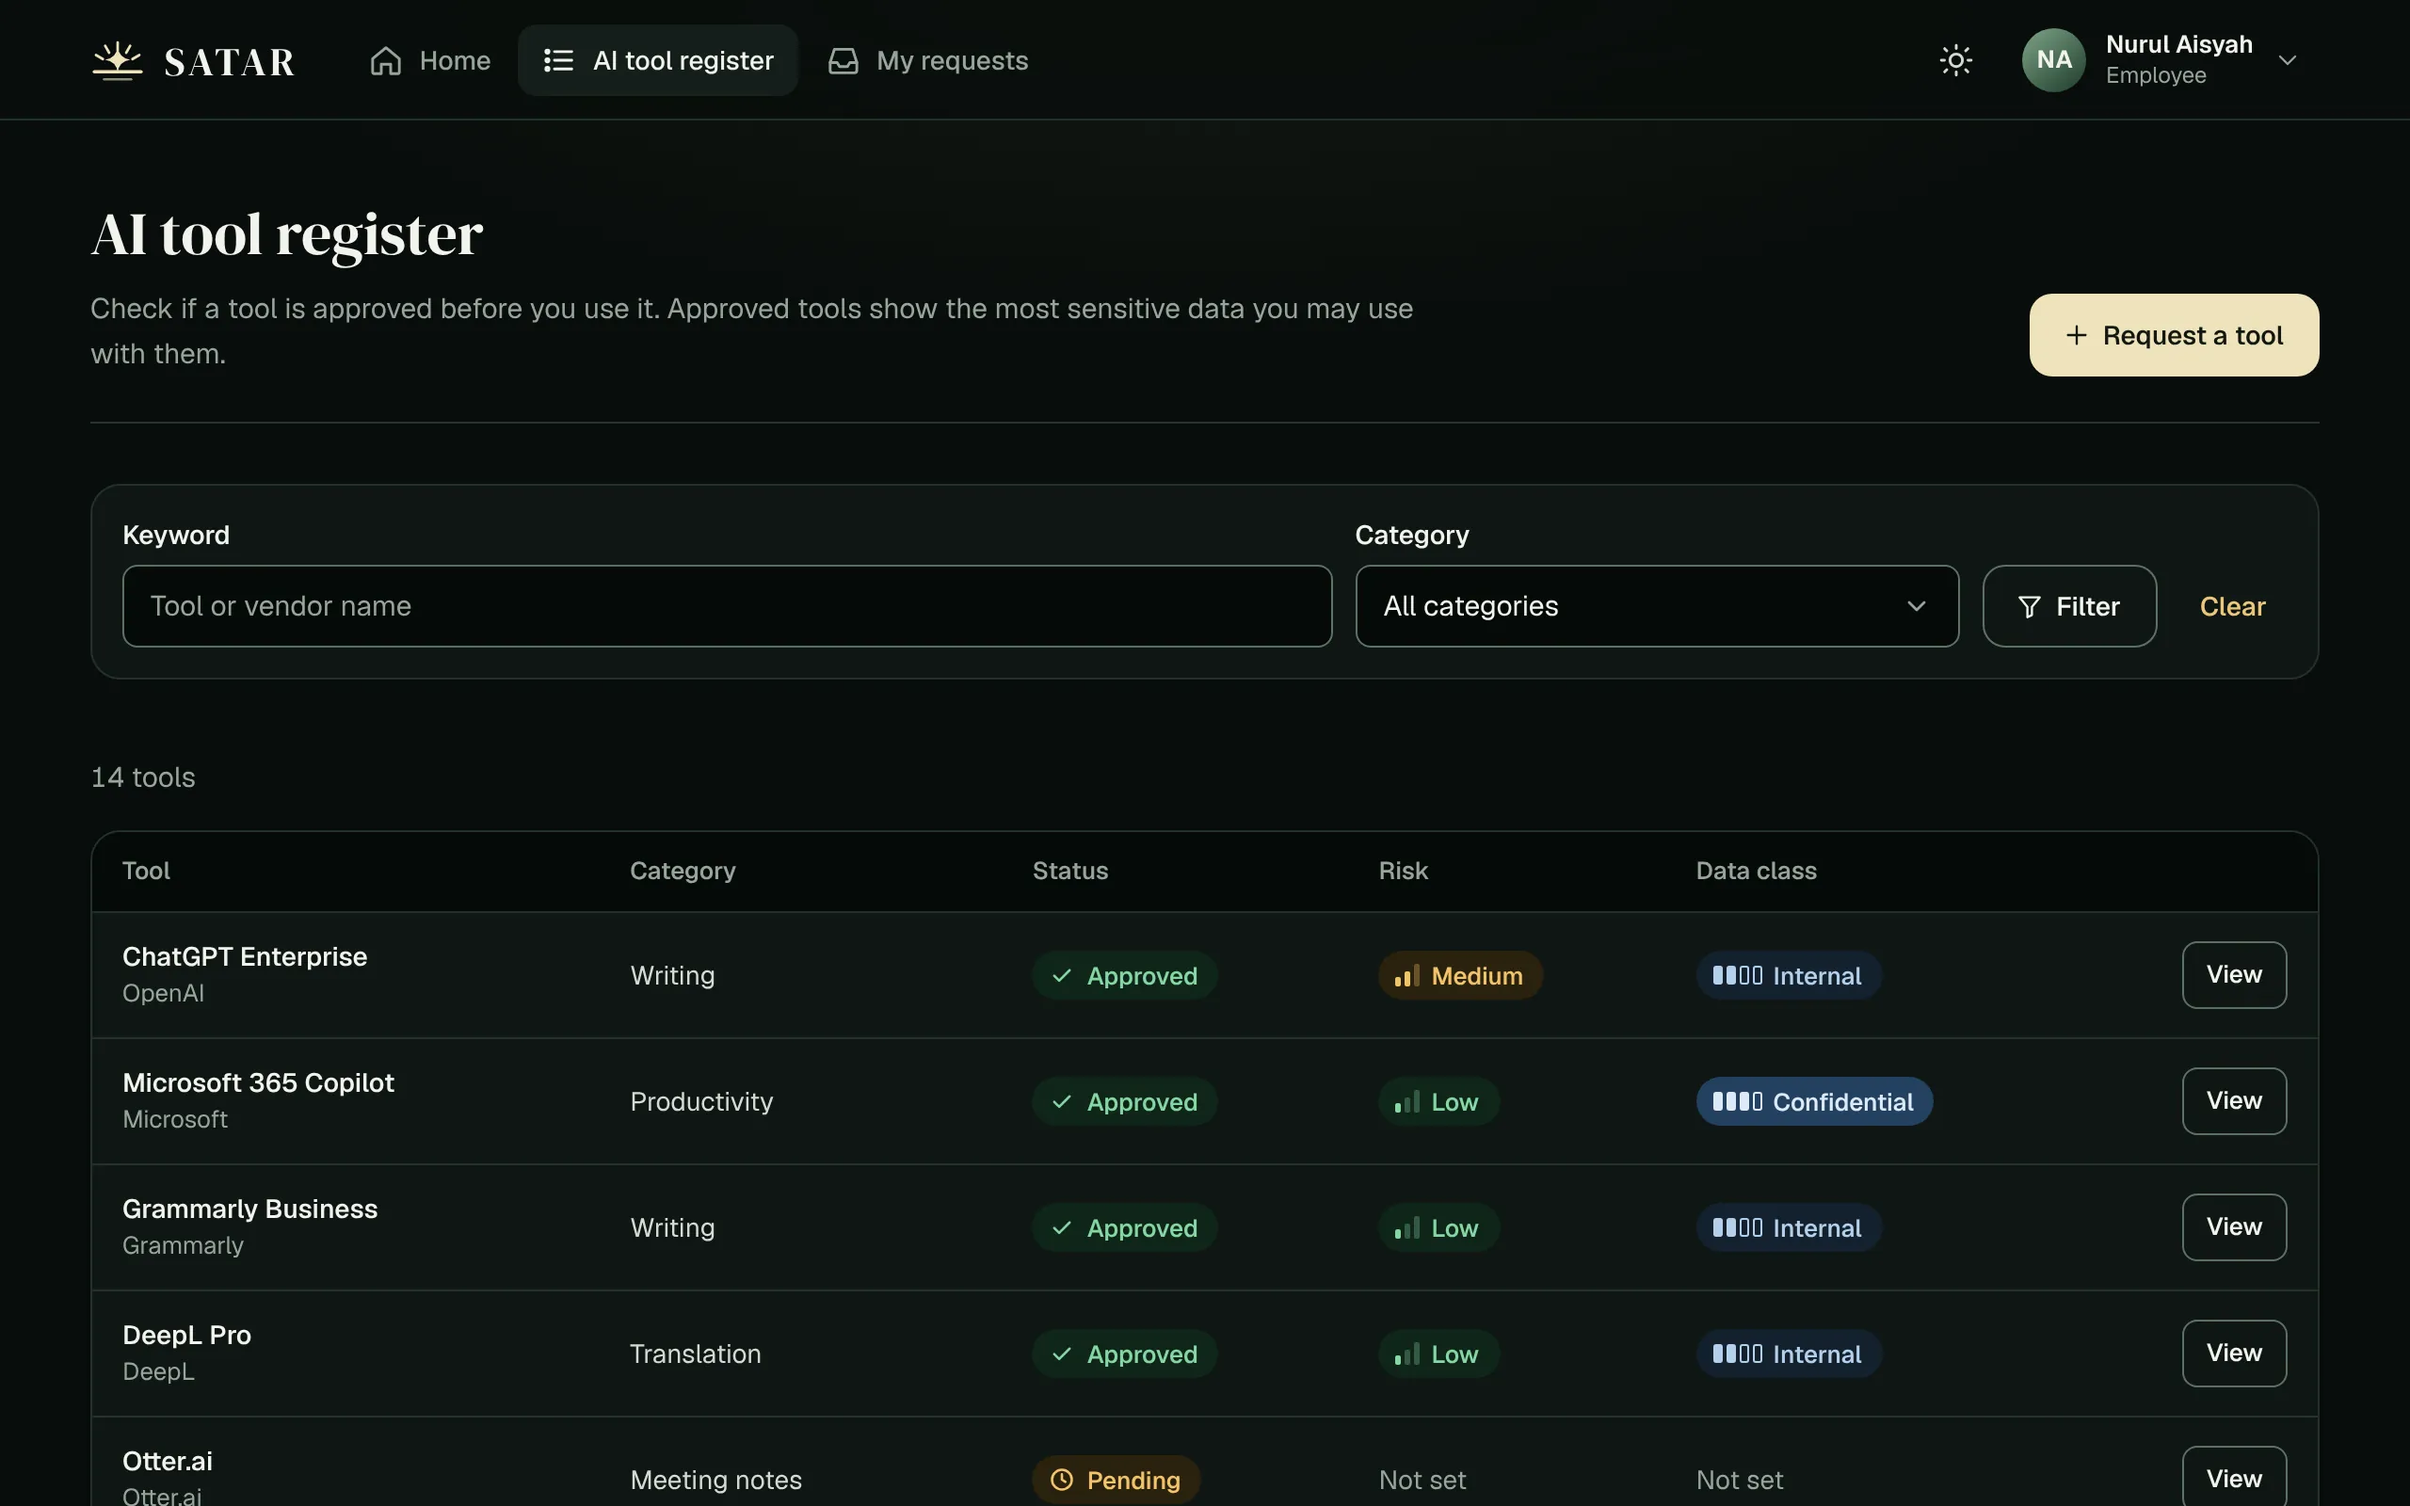
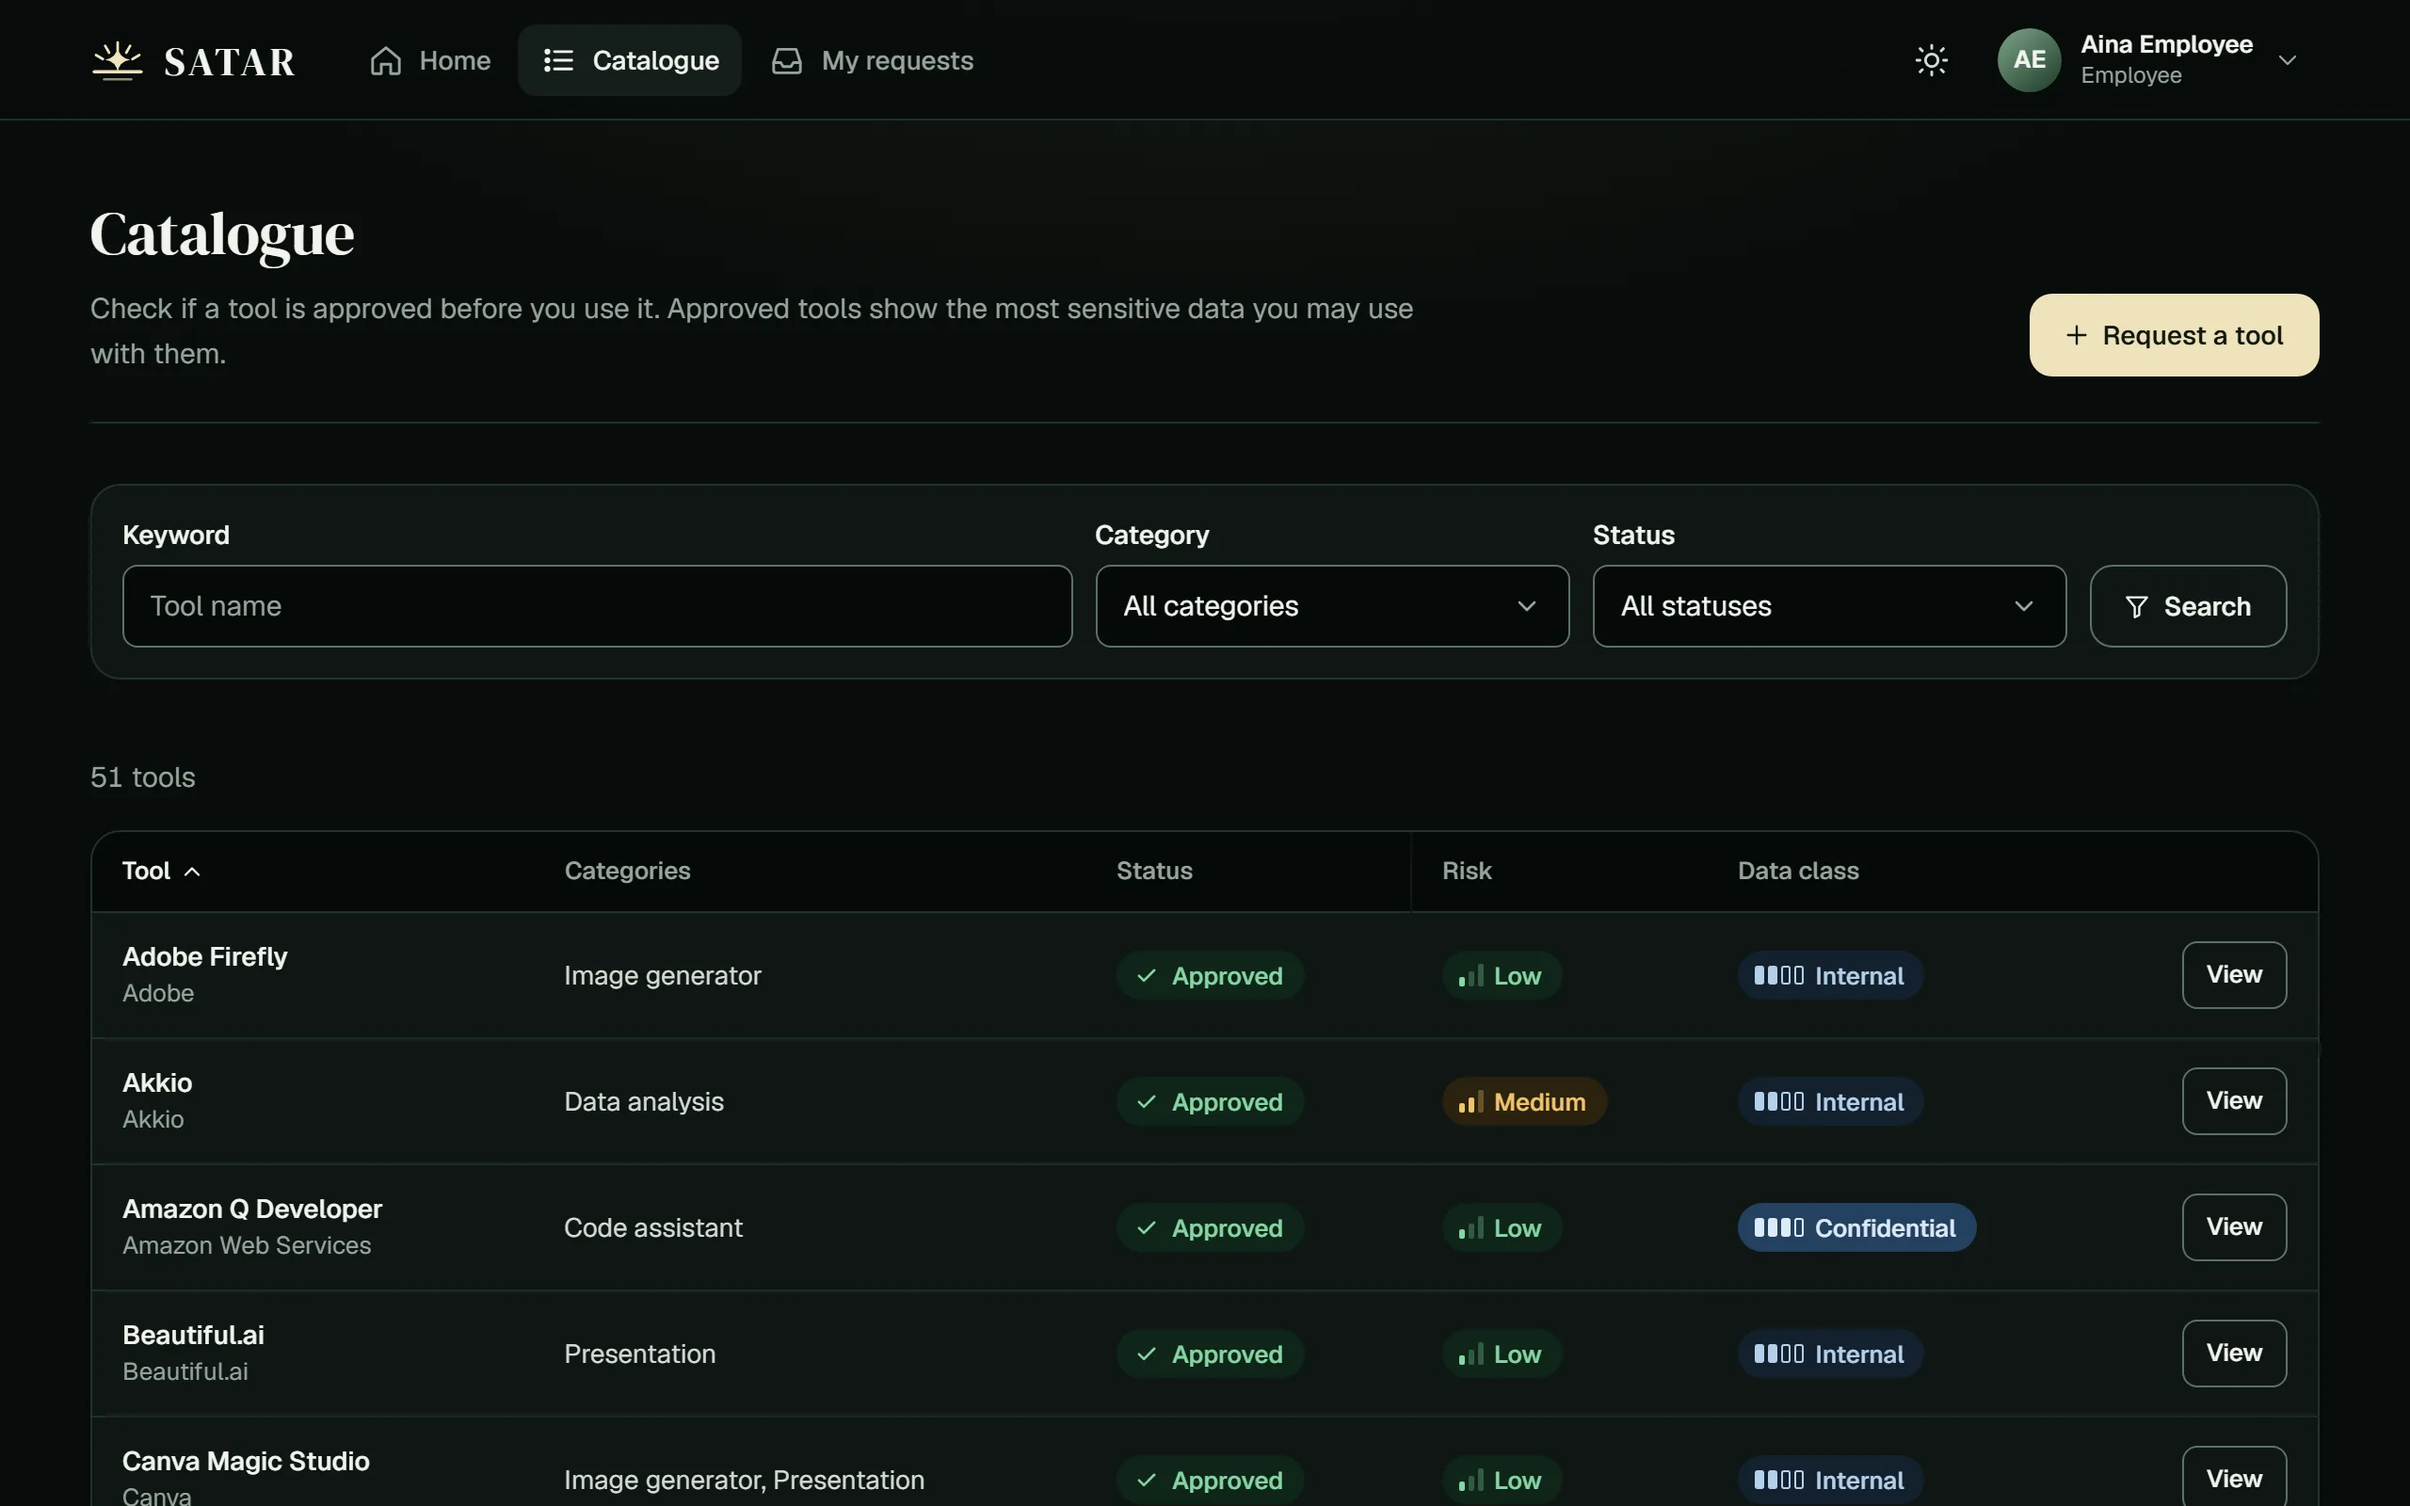
Landing: show the current Employee Catalogue
The window preview and the phone picture in the gallery were design mockups
with the old "AI tool register" menu and title. Both are now captures of
the real Employee Catalogue (Home, Catalogue, My requests; keyword,
category and status filters).

diff --git a/src/routes/+page.svelte b/src/routes/+page.svelte
@@ -159,7 +159,7 @@
 	<div class="window" id="window">
 		<div class="window__frame">
 			<div class="window__bar" aria-hidden="true"><span></span><span></span><span></span><b>satar.my/catalogue</b></div>
-			<img src="/img/shots/register-desktop.webp" width="2560" height="1600" alt="The SATAR catalogue: a table of tools with their status, risk level and allowed data class, and a filter bar to search by keyword and category." loading="lazy" />
+			<img src="/img/shots/register-desktop.webp" width="2560" height="1600" alt="The SATAR catalogue: a table of tools with their status, risk level and allowed data class, and a filter bar to search by keyword, category and status." loading="lazy" />
 		</div>
 		<div class="window__glint" aria-hidden="true"></div>
 	</div>
